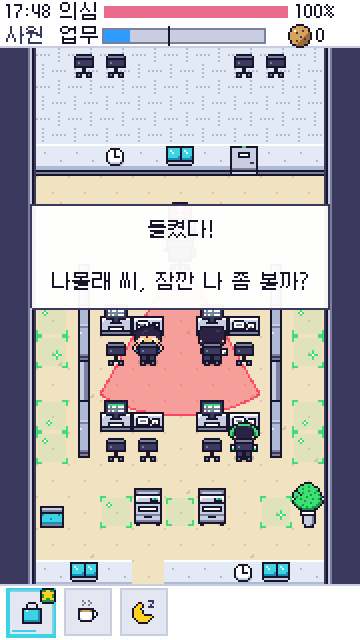
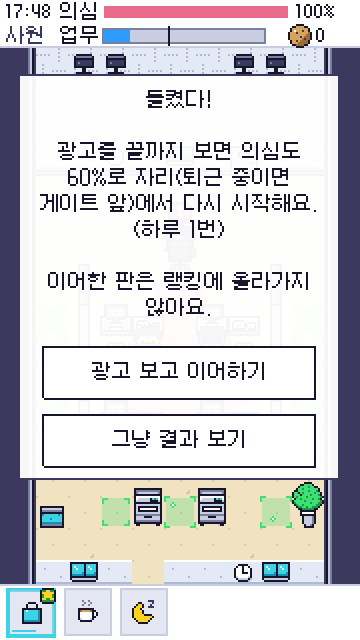
T-141 QA 결과 반영, D-121~D-126 결정, T-164~T-166 배분
Claude-Session: https://claude.ai/code/session_01HgejiTq3LUcfVCY2d4vqw2

diff --git a/molrae-toegeun/qa/t141-report.md b/molrae-toegeun/qa/t141-report.md
@@ -1,0 +1,238 @@
+# T-141 QA 재측정 보고서 (최신 커밋 기준, 미리보기 빌드 설정)
+
+- 측정 대상: `8b883a3`(T-162 반영본). 이후 `98c3658`은 `strings.ko.json`에 `settings.character_confirm` 키 1개만 추가(코드 미연결)했고 순회·맵·밸런스 데이터는 같아서 결과는 두 커밋에 똑같이 적용됩니다.
+- 조립 설정: 미리보기 빌드와 같습니다(`?v3=1&gender=1`, 순회 auto). 생성 맵, 미션 v3, 성별 시설, 팀장 순회를 모두 켰습니다(`game/tests/lib/t141content.ts`). 데이터 기본값(`enabled: false`)이 아니라 활성 상태를 측정했습니다.
+- 브라우저는 프로덕션 빌드 기준입니다(D-114). `vite build --outDir tests/.out/t141/dist`로 만들고 `vite preview`로 띄웠으며, 가짜 rAF와 deviceScaleFactor 1을 썼습니다.
+- 실행 방법은 모두 `game/`에서 합니다. 자세한 내용은 `game/tests/README.md` T-141 절을 보세요.
+  - `bash tests/run-t141.sh balance 100 30 60 5 4 10`: 하루 전체 봇 3종. 1~15일 100시드, 16~60일 30시드(대표님 날 60시드), 61~200일 5시드(대표님 날 8시드). 성별 짝은 3~60일 10시드. 총 16,844판, 오류 0, 4워커로 537초 걸렸습니다.
+  - 집계: `python3 -I tests/sim/t141-tables.py` → `tests/.out/t141/tables.md`
+  - `bash tests/run-t141.sh tour 6 200 5`: 앉은 봇(GDD v3 §3-7 봇 B). 6~200일 × 5시드 = 975일-시드.
+  - `bash tests/run-t141.sh maps [--write]`: 맵 해시 스냅샷과 성별 시설 회귀. `bash tests/run-t141.sh gap`: 방해 배치 최소 간격 검사.
+  - `bash tests/run-t141.sh trace <일차> <straight|disguise|novice|sit> <시드> [시작초] [끝초]`: 한 판을 재현합니다.
+  - `node tests/browser/t141-browser.cjs http://localhost:5180/ all`과 `node tests/browser/t141-title-return.cjs`
+- 실기기 항목은 범위에서 제외했습니다.
+
+## 0. 하니스 변경(T-131 대비)
+
+- 추가한 봇 조작: 새 미션 행동 4종(택배 fetch, 출력 remote_start·grab, 카페 queue).
+- zone_only 미션 처리: 구역 입구에서 0.8초 둘러본 뒤 장소로 갑니다. 기존 봇은 입구에서 시간 초과까지 서 있었습니다.
+- 미션 선택: 시간 예산에 맞는 첫 미션을 고릅니다. 기존 봇은 맨 앞 미션이 예산에 안 맞으면 하루 종일 쉬었습니다. 이 결함 때문에 1차 실행 결과(1~10일 칼퇴 67.5%)는 폐기하고 다시 측정했습니다.
+- 플레이 시간 보정을 없앴습니다. 결과 `timeSec`에 인트로가 이미 들어 있습니다(BUG-013 수정).
+- 인사팀 우회 측정을 없앴습니다.
+- 순회 콘이 만든 의심 비중을 새로 계측합니다.
+- 광고 픽스처 수정: `countersDate`를 '오늘'로 둡니다. 설치일 날짜로 두면 D-068 규칙에 따라 카운터가 0으로 초기화되어 전면광고가 뜨지 않습니다.
+
+## 1. 합격선 9개 (캐주얼 기준 = 위장 봇)
+
+| # | 기준 | 결과 | 판정 |
+|---|---|---|---|
+| 1 | 1판 평균 60~90초(1~5일 50~75초), 최댓값 ≤ 95초 | 평균: 1~5일 61.1, 6~15일 72.4, 16~30일 78.9, 31~60일 80.7, 61~200일 82.7초<br>최댓값: 1~60일 **95.6초**, 1~200일 **104.9초**. 95초 초과 58/12,778판으로 전부 대표님 날(78·158·183·103·32·173·101일) | **불합격** |
+| 2 | 1~10일 칼퇴(★2+) 70~80%, 적발 ≤ 10% | 칼퇴 72.0%, 적발 0.4% | 합격 |
+| 3 | 순시 눈도장 40~60%, 순시 원인 적발 ≤ 20% | 눈도장 50.5%, 적발 판 중 순시 원인 2.9%(순시 중 적발 0.1%) | 합격 |
+| 4 | 시선·말걸기·모퉁이 전조 ≥ 0.4초, 연속 페이크 0 | 돌아보기 536,012회 중 전조 부족 0, 무전조 0, 연속 페이크 0 | 합격 |
+| 5 | 화면 밖 원인 의심 상승 0틱, 화살표가 실제 시선보다 늦은 사례 0건 | 화면 밖 시선 틱 0. 원인 불명 상승 85틱은 성별 시설 규칙 벌점(C3 마주침 +0.05)과 NPC 교체 틱의 하니스 기록 누락으로 확인했습니다(표본 2건 추적).<br>**화면·화살표 선행 0.4초 미달 209건**/시선 시작 136,629회. 18일에만 45건이며 순회 팀장이 목적지 대기 뒤 전조 없이 출발 → BUG-018 | **불합격** |
+| 6 | 화면 안 동시 인원 ≤ 8 | **최대 9명**(17판: 45·151·171일) → BUG-019 | **불합격** |
+| 7 | 직진 봇 사원 평균 최고 의심 ≥ 0.6, 캐주얼 사원 ★3 20~40% | 62.2%, ★3 26% | 합격 |
+| 8 | (D-078) 인턴 미니게임 ≥ 85%, 인턴 퇴근 ≥ 80% | 커피 96.3%, 낮잠·화장실·쇼핑·간식 100%, 퇴근 82.8% | 합격 |
+| 9 | 퇴근 방해 1개당 지연 1.5~2.5초 | **0.87초/건**(짝 1,377, 방해 1,987건). 단일 방해별: INT-04 2.36, INT-06 1.63, INT-07 1.39, INT-10 0.94, INT-05 0.04, INT-08 −0.80초 | **불합격** |
+
+**합계: 5/9 합격**(2·3·4·7·8). D-069 출시 기준은 충족하지 못했습니다.
+
+### 부가 밸런스 지표
+
+- 칼퇴율(위장 봇)
+  - 구간별: 6~15일 68.6%, 16~30일 50.4%, 31~60일 30.7%, 61~200일 31.2%
+  - 31일 이후 야근 원인은 게이트 3회 실패 676, 업무 미달 317, 시간 초과 125판입니다.
+  - 1~10일 칼퇴는 T-139 수작업 맵 기준 77.1% 대비 **−5.1%p**로, gdd-v3 §7의 '±3%p'를 벗어났습니다.
+- 새 미션 성공률(16~60일, 위장 봇)
+
+  | 미션 | 성공률 | 목표 | 비고 |
+  |---|---|---|---|
+  | 공과금(bank) | 55.0% | 80~90% | 시간 초과 43.7% |
+  | 수다(chat) | 77.5% | 75~85% | |
+  | 택배(parcel) | 61.5% | 70~85% | 시간 초과 38.5% |
+  | 출력(print) | 92.7% | 75~90% | |
+  | 카페(cafe) | 92.8% | 75~85% | |
+  | 창가(window) | 79.7% | 75~90% | |
+
+  - 데뷔 직후 구간(17~40일)은 76~100%입니다.
+- 순회 중 팀장 콘이 만든 의심 비중: 18.3%(목표 15~35%, 합격)
+- 억울한 실패 후보: 적발 1,927판 중 83판에 선행 미달 또는 원인 불명 상승이 섞여 있었습니다. 대부분 위 5번 항목의 사례입니다.
+
+## 2. 앉은 봇 계획 대비 출발(D-113 ≥ 90%)
+
+| 직급 | 일반 날: 계획 → 출발(비율) / **목적지 도착(비율)** | 대표님 날: 계획 → 출발(비율) / **목적지 도착(비율)** |
+|---|---|---|
+| 사원 | 1.90 → 1.90 (100%) / 92.6% | - |
+| 대리 | 1.92 → 1.90 (99.1%) / 95.7% | - |
+| 과장 | 2.43 → 2.43 (100%) / 94.1% | 1.67 → 1.57 (94.0%) / **62.0%** |
+| 차장 | 2.44 → 2.44 (100%) / 91.8% | 1.67 → 1.53 (92.0%) / **64.0%** |
+| 부장 | 2.57 → 2.54 (98.9%) / 91.1% | 1.20 → 1.16 (96.7%) / 83.3% |
+| 임원 | 2.43 → 2.39 (98.3%) / 89.0% | 1.63 → 1.50 (91.9%) / **65.4%** |
+
+- 'stand' 이벤트 기준 출발 비율은 모든 칸이 90% 이상이라 D-113 문구상 **합격**입니다.
+- 다만 출발한 회차 중 상당수가 목적지에 닿기 전에 되돌아옵니다(`tourReturnEarly`, 퇴근 4초 전 복귀 규칙). 대표님 날 실제 도착률은 62~65%입니다 → BUG-017.
+- 지정 일차(기본 시드 + 4시드)
+
+  | 일차 | 직급·날 | 계획 회차 | 출발 | 메모 |
+  |---|---|---|---|---|
+  | 14 | 사원 | 1회: INT-08 회의 8초, 추정 자리 비움 41.5초 | 5/5시드 | 하루 2회가 아니라 1회 |
+  | 44 | 차장·대표님 날 | 2회 | 5/5 | |
+  | 56 | 부장·대표님 날 | **0회** | - | dropped=INT-08. 팀장이 하루 종일 자리에 있음 → BUG-025 |
+  | 101 | 임원·대표님 날 | 1회(회의) | 5/5 | 회의실에 도착하자마자 되돌아옴(회의 0초) → BUG-017 |
+  | 155 | 임원·대표님 날 | 2회 | 9/10 | 시드 1개에서 회의 회차 skipped |
+
+## 3. 대표님 순시 미종료(근무 시계 정지)
+
+- 앉은 봇 975일-시드와 하루 전체 봇 대표님 날 3,348판 모두 **0건**입니다.
+  - 미종료(시간 초과) 0, 근무 시계 위반 틱 0, 미션 시계 위반 0
+  - 최장 연속 시계 정지는 28.8초로, 순시 한 번의 길이입니다. **합격**
+
+## 4. 실측 − 추정 자리 비움(D-119 cornerTellShare 판단)
+
+- 목적지에 도착한 일반 회차 기준입니다(INT-08 제외, 잘린 회차 제외).
+- 평균은 사원 +1.96, 대리 +1.64, 과장 +1.59, 차장 +1.21, 부장 +1.73, 임원 +1.54초입니다.
+- 대표님 날은 과장 +0.33, 차장 +1.35, 부장 **+2.63**(n=16), 임원 +1.19초입니다.
+- 중앙값은 +0.3~+1.3초입니다. 회차별로는 +2초 초과가 27~41%입니다(꼬리가 긺).
+- 평균 +2초 초과는 **부장 대표님 날 1칸뿐**이고 표본이 적습니다. 사원은 +1.96초로 경계선입니다.
+- 원인 관찰(17일 추적): 플레이어가 자리에 있으면 팀 구역 모퉁이마다 조건부 전조가 납니다(전조 0.5초 + 돌아보기 0.5~2초). 반대로 플레이어가 멀리 있으면 전조가 거의 없습니다. 그래서 분포가 두 갈래로 나뉩니다.
+- QA 의견: 평균 기준으로는 cornerTellShare 0.5 상향이 **필요 없음**(현행 0.25 유지)입니다. 꼬리를 줄이려면 '돌아보기 중 출발 대기'를 추정에 더하는 개발안이 더 직접적입니다.
+
+## 5. 본부장 순찰(INT-10) 때 팀장 인사 hold(D-119)
+
+- 예정 시각이 지난 뒤 인사 hold와 겹친 회차는 73/2,090회차(3.5%)입니다. 직급별로는 임원 53, 차장 9, 부장 8, 대리 3입니다.
+- hold 시간은 평균 6.9초, 최대 20.0초입니다. 그 회차의 출발 지연은 평균 7.2초, 최대 22.3초입니다.
+- **skipped 11건**(임원 10, 부장 1)은 hold 때문에 출발 마감을 넘긴 경우입니다. 전체 skipped 54건의 20%입니다.
+- QA 의견: 비율이 작아 출시 차단 사유는 아닙니다. 다만 hold가 최대 20초로 '1.0초 뒤 하던 일 계속'(gdd-v3 §3-4)과 거리가 멉니다. 원인은 본부장이 팀 구역에 머무는 동안 hold가 계속 연장되는 구조입니다. hold 상한(예: 3초)을 두는 쪽을 권합니다.
+
+## 6. 고직급 직전 목적지 반복(D-118)
+
+- 계획 기준(기본 시드)으로 직전 회차와 같은 목적지가 나온 날은 다음과 같습니다.
+
+  | 직급 | 반복한 날 |
+  |---|---|
+  | 사원 | 7/10 |
+  | 대리 | 5/12 |
+  | 과장 | 8/13 |
+  | 차장 | 6/12 |
+  | 부장 | 5/12 |
+  | 임원 | **75/136(55%)** |
+
+- 반복 쌍은 printer→printer 134건, meeting→meeting 1건입니다.
+- 출발한 회차만 세도 임원 74일로 거의 같습니다.
+- D-118 기준선은 98/136이었고 지금은 75/136입니다. D-120(팀 모듈 안 목적지 3종) 반영 뒤 재측정이 필요합니다.
+
+## 7. INT-08 흡수 날(D-117)
+
+- 기존 `p_tl_meeting`이 근무 구간에 등장한 날: **0**/975(합격). 흡수한 날에는 근무 INT-08 방해도 남지 않습니다(0).
+- 회의 중 낮잠 잠김: 팀장이 회의실 대기 중일 때 낮잠 칩이 열려 있던 틱 0, 잠김 3,278틱(합격).
+- 회의실 '사용 중': 회의실에 도착한 회차 41건 모두 표시되었습니다(합격).
+- **회의가 실제로 열리지 않은 회차**(기본 시드 흡수 회차 71건 기준)
+  - 미출발 7건: 전부 임원이고 대표님 날이 5건입니다.
+  - 출발했지만 회의실 도착 즉시 또는 도착 전에 되돌아온 회차 23건(출발 64건 중 36%)
+  - 5시드 전체로는 출발 330건 중 127건(38%)입니다 → BUG-017
+- 회의 회차 자리 비움(완료 38건): 최소 13.5, 중앙 22.2, 최대 42.2초
+  - 직급별 중앙값: 사원 36.0, 대리 28.1, 차장 41.1, 부장 35.9, 임원 21.5초
+  - 계획 단계 추정 자리 비움이 퇴근 4초 전 마감을 넘는 회차: INT-08 51/71, 일반 32/347
+
+## 8. minGapSec 추종
+
+- 데이터 사본에서 `minGapSec`를 6, 10, 14, 18로 바꿔 16~200일 근무 방해 배치를 비교했습니다.
+  - 최소 간격은 각각 6.0, 10.2, 14.2, 18.2초이고, 위반은 0건입니다(INT-10 포함).
+  - 간격을 키우면 방해 수가 줄어듭니다(186 → 146개). **합격**
+
+## 9. 경비 말걸기·성별 대칭·시설 G1~G17·맵 해시
+
+### 경비 말걸기(위장 봇·직진 봇·초보 봇 합계)
+
+- 전조 2,326회 → 성립 1,182(51%), 위장 취소 426, 그냥 지나감(missed) 673, 피함 31
+- 게이트 단계에서 정체 규칙을 넘는 상승은 0입니다.
+- 무반응 성립률 ≥ 75%(gdd-v3 §3-6)는 직진 봇만 따로 집계하지 않아 이번에는 **미판정**입니다.
+
+### 성별 대칭
+
+- `npm run sym-gender 1 200`: OK(판정 이벤트 55,557건 일치, 화장실 쌍 198일)
+- G1: 3~60일 위장 봇 같은 시드 남/여 580짝에서 결과가 다른 짝 0입니다. 칼퇴·적발·★3·길이·화장실 성공률이 모두 같습니다(차이 0, **합격**).
+- 맵 조립: 남/여 판정 재료(skins 제외)가 198일 모두 같습니다.
+
+### 시설 G 항목
+
+| 항목 | 결과 | 판정 |
+|---|---|---|
+| G2(same/other 화장실 성공률 차 ≤ 8%p, same ≥ 70%) | same 37.0%(n=73) vs other 89.5%(n=19) | **불합격**(표본 적음) → BUG-022 |
+| G3(적발률 차 ≤ 3%p) | 11.0 vs 9.7% | 합격 |
+| G4(mineSide 성공률 차 ≤ 3%p, 편도 차 ≤ 4타일) | 성공률 a 91.1% vs b 73.9% **불합격**, 편도 차 최대 3타일(평균 2.8) 합격 | **불합격** → BUG-022 |
+| G5(청소 날 ≥ 70%, 시간 초과 ≤ 15%) | 80.8%, 시간 초과 19.2%(n=26) | **불합격**(시간 초과) |
+| G6 | 전조 위반 0(4번 항목) | 합격 |
+| G10(7일 창 same/other 차 ≤ 1일) | facilityStop이 있는 날만 세면 최대 3일 | 판정 보류. 날마다 relation이 정의되는지 기획 확인 필요 |
+| G13 | sym-gender ④ 로그·판정 재료에 성별 값 0 | 합격 |
+| G15(본부장 실제 들름 ≥ 85%) | 43/60일(72%). 근무 중은 41일 | **불합격** → BUG-021 |
+| G17(생성 폴백 0) | 성별 시설 켬 0/198, 끔 0/198 | 합격 |
+
+- 미실행: G7·G8·G11·G12·G14·G16. 시설 출입 경로·화면 노출 가중 비율·렌더 로그·문 취소(발생 0회)·동기 회전·체류 봇은 전용 하니스가 필요해서 이번 범위에서 실행하지 못했습니다.
+- G9(성별 시설 끔과 켬의 판 길이 비교)도 미실행입니다(시간 부족).
+
+### 맵 해시
+
+- 3~200일 스냅샷을 새로 만들었습니다(`qa/t141-map-hashes.json`). 성별 시설 켬·끔 각각, generatorVersion 1, FNV-1a(층 행 기준)입니다.
+- 같은 일차를 다시 생성해도 198/198일 동일합니다. `gen-survey`의 같은 일차 재생성 29/29, 폴백 0, 시도 평균 1.0~3.5, 최대 13도 확인했습니다.
+- D-120(새 목적지) 반영 뒤에는 `bash tests/run-t141.sh maps`가 바뀐 일차를 표시합니다.
+
+## 10. 프로덕션 브라우저 회귀
+
+- 일괄 실행(`all`): **27/27 통과**(`game/tests/.out/t141/browser-all.log`·`browser.json`). 타이틀 복귀·같은 외형 재선택은 `t141-title-return.cjs`로 별도 확인
+- 초기 로드: 첫 터치 전 **1,463,230B**(파일 16개, 오디오 0개). 2,000,000B 이하로 합격입니다.
+  - 오디오(mp3만)는 208,252B로 220KB 이하이고 ogg는 0개입니다.
+- 첫 화면: load 640ms, 부팅 로그까지 771ms(로컬 미리보기 서버)
+- 콘솔 오류: 모든 단계에서 0
+- 캐릭터 선택
+  - 첫 출근 화면은 '첫 출근 날이에요…'·'남자 사원/여자 사원'·고르기 전 확인 비활성이 정상이고, 저장 f도 확인했습니다(`t141-03`).
+  - 설정 모드는 '내 캐릭터 바꾸기'·'남성/여성'·설정용 안내가 정상입니다. 단 확인 버튼이 **'출근하기'**입니다 → BUG-026(D-120 키 미연결).
+  - 변경 토스트 '다음 판부터 바뀐 모습으로 출근해요.'가 표시되고, 같은 외형을 다시 고르면 토스트가 없습니다. 둘 다 실제 rAF로 확인했습니다(`t141-21`, `t141-25`).
+- 마감 직전 통화 끊고 출발: 79일, `?seed=qa141-12`, 앉은 채 진행(`t141-11-phonecut-*`)
+  - 통화 포즈(−90~−10프레임) 다음 프레임에 일어나기 전조와 '회의 다녀올게요' 말풍선이 나와서, 흐름은 끊김 없이 이어집니다.
+  - 다만 끊는 동작(전화 내려놓기 등)이 없이 바로 바뀌어, 자연스러운지는 PM이나 오너가 체감으로 판단해야 합니다.
+  - 말풍선 아이콘이 문구 가운데를 가립니다 → BUG-023
+- 광고(D-050)
+
+  | 경우 | 결과 |
+  |---|---|
+  | 공통 | 제안 화면 전까지 광고 호출 0, 같은 크기 버튼 2개 |
+  | 보상 | 1회 노출 후 같은 판 재개(의심 58%로 재개, 60% − 감쇠) |
+  | 거절 | 광고 0, 결과 화면 |
+  | 중도 종료 | 1회 노출, 결과 화면과 안내, 자동 재시도 없음. 안내 토스트가 결과 패널 제목을 가림 → BUG-024 |
+  | 전면광고 | 결과 화면에서 '다음 날 출근'을 탭한 뒤 '잠시 후 광고가 나와요' 예고 → 노출 → 출근 준비 순서. 플레이 중 광고 0 |
+
+- 세로 레이아웃: 320×568은 배율 1, 390×844와 412×915는 2, 768×1024는 3입니다. 모두 정수 배율이고 넘침이 없으며 콘솔 오류 0입니다.
+- 하니스 한계: 가짜 rAF에서는 설정 뒤 타이틀이 재시작될 때 'N일차 출근'·'내 캐릭터'가 안 그려집니다. 실제 rAF에서는 정상이라 제품 문제가 아닙니다.
+
+## 11. 기존 버그 재검증
+
+| 버그 | 재검증 결과 |
+|---|---|
+| BUG-007 | 해결 확인. 인사팀 말걸기 성립 374회 |
+| BUG-009 | 판정 보류. postHoldViol 402틱이지만 이 지표는 다른 NPC 시선 상승까지 셉니다. 지표를 좁히는 작업은 다음 회차로 넘깁니다 |
+| BUG-010 | 다른 원인으로 재발. 순회 목적지 출발에서 생기며 BUG-018로 분리했습니다 |
+| BUG-011 | 해결 확인. 18시 전 보너스 305판 |
+| BUG-012 | 해결 확인. 정체 규칙 초과 상승 0 |
+| BUG-013 | 해결 확인. timeSec에 인트로 포함 |
+| BUG-014 | 해결 확인. 설치일 날짜 카운터는 0으로 초기화되고 '오늘' 카운터는 3판째에 노출 |
+| BUG-015 | 해결 확인. talkCancel escaped 355회 |
+| BUG-016 | 해결 확인. MP3 단일, 208KB |
+
+## 12. 기획 전달용 조정 제안
+
+1. 합격선 1(최댓값)
+   - 대표님 날 78·158·183일이 100초를 넘습니다. 순시 28.8초 정지와 근무 구간이 겹친 탓입니다.
+   - 제안: 고직급(임원) 대표님 날 근무를 −2~3초 더 줄이거나, 순시 talk 단계 길이를 줄입니다.
+2. 합격선 9(0.87초/건): 원인은 다음과 같습니다.
+   - 생성 맵의 퇴근 동선이 길어 방해와 마주치기 전에 다른 지연이 섞입니다.
+   - INT-08 퇴근판이 오히려 빨라집니다(−0.8초).
+   - INT-05가 사실상 0초입니다.
+   - 제안: 위협형(INT-05·08·10)을 지연 평균에서 빼는 정의 변경과 budgetModel 교체 중에서 PM이 골라야 합니다.
+3. 칼퇴율 31일 이후 약 31%: 게이트 3회 실패가 야근의 60%입니다. 과장 이상 게이트 창(windowRatio)을 +0.01~0.02 완화하는 안을 권합니다.
+4. 공과금 55%·택배 61.5%(16~60일)
+   - 공과금은 제한 16초 대비 시간 초과 44%입니다.
+   - 택배는 생성 맵에서 편도가 26칸을 넘는 날이 있어 32초 제한을 넘깁니다.
+   - 제안: 제한을 각각 +4초 늘리거나, 택배 장소 거리 상한 검증을 추가합니다.
+5. 성별 시설 G2·G4: same 날 화장실 성공 37%, mineSide b 73.9%. 거리·같은 성별 들름이 겹친 날의 시간 초과가 원인으로 보입니다. 표본을 늘린 재측정과 함께 C3 벌점이나 시간 예산 보정을 검토해야 합니다.

diff --git a/molrae-toegeun/qa/bugs.md b/molrae-toegeun/qa/bugs.md
@@ -2,6 +2,32 @@
 
 심각도: P0 출시 불가(크래시·데이터 손실·정책 위반) / P1 핵심 규칙·공정성 위반 / P2 기능 미구현·체감 문제 / P3 경미·개선
 
+## 상태 요약 (T-141 재측정, 2026-11-25, 커밋 `8b883a3`(+`98c3658` 문자열 1개), 미리보기 빌드 설정 = 생성 맵·미션 v3·성별 시설·순회)
+
+| ID | 심각도 | 제목 | 상태 |
+|---|---|---|---|
+| BUG-007 | P2 | 인사팀 INT-06 말걸기 미발동 | **해결 확인**(성립 374회) |
+| BUG-009 | P2 | 말걸기 종료 직후 상승 | 판정 보류(지표가 다른 시선 상승도 셈, 하니스 축소 필요) |
+| BUG-010 | P2 | 화면 밖 회전 전조 후 화살표 선행 미달 | 기존 원인 해소, **다른 원인으로 재발 → BUG-018** |
+| BUG-011 | P2 | 18시 전 보너스 도달 불가 | **해결 확인**(305판) |
+| BUG-012 | P3 | 게이트 도착 직후 상승 | **해결 확인**(정체 초과 0) |
+| BUG-013 | P3 | 플레이 시간 인트로 누락 | **해결 확인** |
+| BUG-014 | P3 | 설치일 판수 이월 | **해결 확인**(D-068 동작, 브라우저 픽스처) |
+| BUG-015 | P3 | talkCancel(escaped) 미발행 | **해결 확인**(355회) |
+| BUG-016 | P2 | 오디오 이중 포맷 | **해결 확인**(MP3 단일 208,252B) |
+| BUG-017 | P2 | 순회 출발 마감이 자리 비움 길이를 반영하지 않아 출발 후 목적지 전에 되돌아옴(INT-08 회의 38% 미개최, 대표님 날 도착 62~65%) | 신규 |
+| BUG-018 | P2 | 순회 팀장이 목적지 대기 뒤 전조 없이 콘을 켜고 출발 → 화면 선행 0.4초 미달 209건(합격선 5) | 신규 |
+| BUG-019 | P2 | 화면 안 인원 9명(45·151·171일, 합격선 6) | 신규 |
+| BUG-021 | P2 | 본부장 시설 들름 실제 발생 43/60일(72%, G15 ≥ 85%) | 신규 |
+| BUG-022 | P2 | 성별 시설 G2·G4 편차: same 날 화장실 37% vs other 89.5%, mineSide a 91.1% vs b 73.9% | 신규(밸런스, 표본 적음) |
+| BUG-023 | P3 | 순회 출발 말풍선 아이콘이 문구 가운데를 가림('회의 다[아이콘]올게요') | 신규 |
+| BUG-024 | P3 | 광고 중도 종료 안내 토스트가 결과 패널 제목을 가림 | 신규 |
+| BUG-025 | P3 | 56일차 팀장 순회 계획 0회, 14·16·75일차 1회(긴 회의 회차만) | 신규 |
+| BUG-026 | P3 | 설정 모드 캐릭터 확인 버튼이 '출근하기'(D-120 '바꾸기' 키 미연결) | 신규(T-163 후속) |
+
+BUG-020 번호는 비워 둠(합격선 1·9 미달은 버그가 아니라 밸런스 편차로 `qa/t141-report.md` §1·§12에 기록).
+재현 도구(game/): `bash tests/run-t141.sh <tour|balance|maps|gap|trace|phonecut|chipcaught>`, `node tests/browser/t141-browser.cjs`, `game/tests/README.md` T-141 절.
+
 ## 상태 요약 (T-131 재검증, 2026-11-23, 커밋 `e51a7f6`(T-133 반영) 소스·데이터 스냅샷, 데이터 해시 `6a926df246`)
 
 | ID | 심각도 | 제목 | 상태 |
@@ -150,3 +176,86 @@
 - 측정: 전체 dist 2,613,449바이트. 이 중 오디오 650,756바이트(MP3·OGG 같은 소리 두 벌, BGM 2곡 MP3 각 128KB + OGG 74/95KB), 오디오를 뺀 초기 로드분 1,962,693바이트입니다.
 - 기대(D-063): 초기 로드 2MB 이하(충족), 오디오는 첫 터치 뒤 지연 로드(브라우저 테스트로 충족 확인: 터치 전 요청 0, 터치 뒤 25개), **MP3 단일 포맷·오디오 전체 200KB 이하**(미충족).
 - 영향: 앱인토스 번들 총량 상한(오너 확인 대기)에 따라 제출이 막힐 수 있습니다. 초기 로드 여유도 37KB뿐입니다.
+
+
+---
+
+# T-141 신규 (2026-11-25)
+
+## BUG-017 [P2] 순회 출발 마감이 자리 비움 길이를 반영하지 않아, 출발한 회차가 목적지 전에 되돌아옴 (INT-08 회의 미개최)
+- 재현: `bash tests/run-t141.sh trace 101 sit day-101 45 70`
+  - 101일차는 임원·대표님 날이고, 계획은 meeting(INT-08 흡수) 25.5초에 추정 자리 비움 21.3초, 근무 구간 42.9초입니다.
+  - 팀장이 근무 25.5초에 출발해 회의실 칸에 도착합니다. 도착 순간 `tourReturnEarly`(퇴근 4초 전 복귀)가 발동해 회의 0초로 바로 돌아옵니다.
+  - 일반 날 예시는 17일차입니다. 2회차 meeting 28.4초가 1회차 복귀 지연으로 33.2초에 출발했고, 회의실에 닿지 못하고 자리로 돌아옵니다.
+- 기대
+  - `latestStartByTour`는 '퇴근 mustBeSeatedBeforeLeaveSec 전에 자리로 돌아올 수 있는 마지막 출발 시각'(types.ts 주석)이어야 합니다.
+  - D-117 ②의 '마감을 못 지키는 INT-08 회의 회차는 그날 회의 자체를 제외'와도 맞아야 합니다.
+- 실제
+  - `latestStartByTour`가 회차와 무관하게 근무의 85%로 같은 값입니다.
+  - 계획 단계에서 '출발 + 추정 자리 비움 > 근무 − 4초'인 회차가 INT-08 51/71, 일반 32/347입니다.
+  - 앉은 봇 975일-시드 결과
+    - 출발했지만 첫 목적지에 닿지 못한 회차: 일반 128/1,705, INT-08 127/330(38%)
+    - 대표님 날 목적지 도착률: 과장 62%, 차장 64%, 임원 65%
+  - 'stand' 기준 출발 비율(D-113)은 90% 이상이라 이 문제가 지표에 드러나지 않습니다.
+- 영향: 회의(낮잠 잠김·회의실 사용 중)가 열리지 않는 날이 많습니다. 팀장이 일어났다가 바로 돌아오는 어색한 동작이 생깁니다. 회의 칩 잠금 시간도 실제 회의 없이 소모됩니다.
+- 제안: 회차별 마감을 `근무 − mustBeSeated − 추정 자리 비움`으로 잡고, 넘는 회차는 fitToWindow로 줄이거나 뺍니다. QA 지표는 '목적지 도착 기준 출발 비율'을 함께 봅니다.
+
+## BUG-018 [P2] 순회 팀장이 목적지 대기(콘 OFF) 뒤 전조 없이 콘을 켜고 걷기 시작 → 화면·화살표 선행 0.4초 미달 (합격선 5)
+- 재현: `bash tests/run-t141.sh trace 18 disguise qa141-18-0 17 18`
+  - 팀장 순회(p_tl_seat_tour)가 (5.5,42.5)에서 대기(wait, 콘 없음)하다가 17.40초에 걷기를 시작합니다.
+  - 그 순간 위협이 approaching(화면 밖)이 되고 17.65초에 화면 안에 들어오며 바로 '보는 중'이 됩니다. 선행 창은 14/24틱(0.23초)입니다.
+- 기대: 모든 시선 시작 전 화면 안 또는 화살표가 0.4초 이상 먼저 떠야 합니다(합격선 5, GDD §5-5). gdd-v3 §3-1의 '복귀 전조 1.0초'도 해당됩니다.
+- 실제
+  - 시선 시작 136,629회 중 209건이 선행 미달입니다. 18일 45, 37일 18, 44일 15건 등이고 주로 team_lead playerEnter입니다.
+  - 탕비실·옆 팀·프린터 목적지는 `endTell`이 없습니다. 회의·보고만 있어서 대기가 끝나면 곧바로 콘이 켜진 채 걷습니다.
+- 제안: 모든 목적지에 복귀 전조(endTell, ≥ 0.4초)를 두거나, 대기 → 걷기 전환에 출발 전조를 넣습니다.
+
+## BUG-019 [P2] 화면 안 동시 인원 9명 (합격선 6: ≤ 8)
+- 재현: `bash tests/run-t141.sh trace 45 disguise qa141-45-1` 또는 171일 `qa141-171-0`. 원자료 `tests/.out/t141/bal-*.jsonl`의 `maxOnScreen` 필드
+- 기대: 매 틱 화면 안 인원(플레이어 포함) ≤ 8(D-049)
+- 실제: 12,778판 중 17판에서 9명입니다(45일 9판, 171일 7판, 151일 1판). 생성 검증 V11과 실제 틱 최댓값이 어긋납니다.
+- 제안: V11 계산에 순회 중 팀장과 본부장 들름 경로를 넣거나, 런타임 인원 상한 가드를 둡니다.
+
+## BUG-021 [P2] 본부장 시설 들름(facilityStop) 실제 발생 43/60일 (G15 ≥ 85%)
+- 재현: `bash tests/run-t141.sh maps`의 `g15Missed`(21, 23, 30, 62, 69, 84, 119, 129, 132, 149, 162, 164, 167, 169, 179, 191, 192, 196일), 앉은 봇
+  - 21일: INT-10 33.5초 발동 → 근무 54초 동안 facility tell 없음
+  - 55일: 근무 끝 55.7초에야 tell, 퇴근 구간에 들어감
+- 기대: facilityStop이 있는 날 ≥ 85% 실제로 들어감(gender-design §6 G15)
+- 실제: 43/60일(72%)이고 근무 중은 41일입니다. 본부장 경로가 들름 노드를 지나기 전에 하루가 끝나거나 순찰이 끝납니다.
+
+## BUG-022 [P2] 성별 시설 지표 편차 (G2·G4, D-092 게이트)
+- 재현: `python3 -I tests/sim/t141-tables.py` '성별 시설 G2~G5'(위장 봇, `tests/.out/t141/facility.json` 결합)
+- 기대
+  - G2: relation same/other 화장실 성공률 차 ≤ 8%p, same ≥ 70%
+  - G4: mineSide a/b 성공률 차 ≤ 3%p
+  - G5: 청소 날 시간 초과 ≤ 15%
+- 실제
+  - G2: same 37.0%(n=73) vs other 89.5%(n=19)
+  - G4: a 91.1%(n=461) vs b 73.9%(n=433). 편도 거리 차는 최대 3타일로 기준 안입니다.
+  - G5: 청소 날 시간 초과 19.2%(n=26)
+- 비고
+  - 남/여 플레이어 사이 차이는 0입니다(G1 합격, 절대 성별 누수 없음). 이 편차는 '내 쪽 시설 배치와 날짜' 편차라 남녀 유불리와는 무관합니다.
+  - same·other 표본이 적어 시드를 늘린 재측정이 필요합니다.
+
+## BUG-023 [P3] 순회 출발 말풍선에서 목적지 아이콘이 문구 가운데를 가림
+- 재현: `node tests/browser/t141-browser.cjs http://localhost:5180/ phone`(79일, `?seed=qa141-12`, 앉은 채 진행) → `qa/screenshots/t141-11-phonecut-+0.png`~`+45.png`
+- 기대: 말풍선 문구('회의 다녀올게요')와 목적지 아이콘이 겹치지 않음
+- 실제: 아이콘이 '녀' 자리를 덮어 '회의 다[아이콘]올게요'로 보입니다.
+
+## BUG-024 [P3] 광고 중도 종료 안내 토스트가 결과 패널 제목을 가림
+- 재현: `?adResult=dismiss&day=8&v3=1&gender=1`에서 적발 → '광고 보고 이어하기' → `qa/screenshots/t141-13-dismiss-after.png`
+- 기대: 안내('광고를 끝까지 보지 않아 이어하기가 적용되지 않았어요.')와 결과 제목('들켰다!')이 둘 다 읽힘
+- 실제: 토스트가 패널 상단 '들켰다!'의 윗부분을 덮습니다.
+
+## BUG-025 [P3] 팀장 순회 회차가 0~1회인 날
+- 재현: `bash tests/run-t141.sh tour 56 56 1`과 14·16·75일
+- 기대: REQ-014(하루 2~4회), D-106(대표님 날 2~3회), D-113 실측 기준(사원 1.8회 이상)
+- 실제
+  - 56일(부장·대표님 날): 계획 0회(dropped INT-08)라 팀장이 하루 종일 자리에 있습니다.
+  - 14일(사원): INT-08 회의 1회만(추정 자리 비움 41.5초), 16일(대리) 1회(36.2초), 75일(임원) 1회(36.9초)
+  - INT-08 흡수가 '가장 가까운 회차를 대체'한 뒤 긴 회의 회차 때문에 나머지 회차가 fitToWindow로 빠지는 것으로 보입니다.
+
+## BUG-026 [P3] 설정 모드 캐릭터 선택의 확인 버튼이 '출근하기'
+- 재현: 외형 저장 상태에서 타이틀 '내 캐릭터' → `qa/screenshots/t141-07-charsel-settings.png`
+- 기대: D-120 '바꾸기'(`settings.character_confirm`)
+- 실제: `CharSelectScene`이 모드와 무관하게 `confirmKey`(charsel.confirm '출근하기')를 씁니다. 키는 98c3658에서 데이터에 추가됐지만 코드에 연결되지 않았습니다.

diff --git a/molrae-toegeun/pm/board.md b/molrae-toegeun/pm/board.md
@@ -68,7 +68,7 @@
 | T-138 | mt-client-dev | T-136 데이터 키 연결, 동작 변경 4건, 공범 간식 ×1.5 버그, 오디오 ogg 잔재 정리 | T-136 | 완료 |
 | T-139 | mt-game-designer | QA 밸런스 제안 10건 검토·데이터 반영 | T-131 | 완료 (합격선 7개 통과 예상) |
 | T-140 | mt-client-dev | BUG-007·009·010·011·012·013·014·015 수정, 초기 로드 여유 확보 | T-131 | 완료 |
-| T-141 | mt-qa-tester | (T-162 반영본 기준) 최신 코드·데이터로 T-131 측정 재실행 + 생성 맵 다수 시드 공정성·시간 예산 검증(합격선 9개, 버그 재검증, QA_LIVE=1, 하니스 갱신: 인사팀 우회 측정 제거·광고 픽스처·플레이 시간 보정 제거·postHoldViol 지표 축소, 폰트 새 형식 브라우저 확인) | T-139, T-140 | 진행 |
+| T-141 | mt-qa-tester | (T-162 반영본 기준, 결과: 합격선 5/9·P2 5건) 최신 코드·데이터로 T-131 측정 재실행 + 생성 맵 다수 시드 공정성·시간 예산 검증(합격선 9개, 버그 재검증, QA_LIVE=1, 하니스 갱신: 인사팀 우회 측정 제거·광고 픽스처·플레이 시간 보정 제거·postHoldViol 지표 축소, 폰트 새 형식 브라우저 확인) | T-139, T-140 | 완료 |
 | T-142 | mt-game-designer | 생성 맵 규칙·검증 규칙, 팀장 순회, 데일리 미션 풀×변형 기획과 데이터 v3 초안(REQ-013~015) | D-074~076 | 완료 |
 | T-143 | mt-pixel-artist | 사무실 모듈 에셋 확장(새 구역·구조물·책상 배치·막힌 길·팀장 일어나기) | D-076 | 완료 |
 | T-144 | mt-client-dev | 일차별 맵 공급 구조, 생성기 골격·검증기, 팀장 순회, 미션 변형 훅 | D-074~076 | 완료 |
@@ -100,3 +100,7 @@
 - **S3 (W5~W6)**: 승진·도감·튜토리얼, 공유 카드, 자동 QA와 밸런스 튜닝, 최적화, 실제 토스 앱 QA
 - **S4 (W7~W8)**: 콘솔 등록 문구·이미지, 검수 제출(오너 승인), 출시, 라이브옵스 투입
 | T-163 | mt-game-designer | 고직급 순회 목적지 다양화 제안서(자리 근처 짧은 목적지, D-118) + 설정 확인 버튼 문구 키 settings.character_confirm | T-162 | 완료 |
+| T-164 | mt-client-dev | T-141 버그 수정: BUG-017(출발 마감에 자리 비움 반영), 018(목적지 복귀 전조), 019(화면 9명), 023(말풍선 아이콘), 024(토스트 겹침), 025(순회 0~1회 날), 026(확인 버튼 키), 인사 hold 상한 3초(D-124), 추정에 돌아보기 대기 포함 | T-141 | 진행 |
+| T-165 | mt-game-designer | D-120 목적지 3종 데이터 반영, D-122 순시 talk 단축, D-125 미션 조정, D-121 합격선 9 정의 수정, BUG-021(G15)·022(G2·G4) 데이터 원인 검토 | T-141 | 진행 |
+| T-166 | mt-pixel-artist | D-120 순회 아이콘 3종·벽 장식·메모 소품·대기 포즈 | T-163 | 진행 |
+| T-168 | mt-qa-tester | T-164~166 반영 후 전체 재측정(도착 기준 D-123, 미실행 G 항목 하니스, BUG-022 시드 확대, 경비 무반응 성립률) | T-164, T-165, T-166 | 대기 |

diff --git a/molrae-toegeun/pm/decisions.md b/molrae-toegeun/pm/decisions.md
@@ -126,3 +126,9 @@
 | D-118 | 2026-11-25 | 고직급 직전 목적지 반복(임원 136일 중 98일, 주로 복사기→복사기)은 출시 범위에서 허용하되, 기획이 자리 근처의 짧은 순회 목적지 추가안을 문서로 먼저 제안(T-163). 데이터 반영은 QA T-141 측정 후 | 측정 기준선을 흔들지 않기 위해 순서 분리 | PM | 기획·QA |
 | D-119 | 2026-11-25 | cornerTellShare 0.5 상향 여부와 본부장 순찰(INT-10) 때 팀장 인사 hold 지연은 QA T-141 재측정 결과를 보고 결정 | 근거 수치 확보 후 결정 | PM | 기획·개발·QA |
 | D-120 | 2026-11-25 | (T-163) 팀 모듈 안 순회 목적지 3종(화이트보드·정수기·빈 책상 메모) 채택, 첫 등장 28일차(과장 첫날), 맵 해시 변경은 D-109와 같은 조건으로 승인하되 반영은 QA T-141 직후. 설정 확인 버튼 문구 '바꾸기' | 임원 반복 98/136일 → 0~4일 예상, 사원·대리 난이도 유지 | PM | 기획·아트·개발·QA |
+| D-121 | 2026-11-25 | (T-141 판단 1) 합격선 9의 퇴근 방해 지연 평균에서 위협형 방해(INT-05·08·10)는 제외하고 지연형만 측정 | 위협형은 지연이 아니라 회피 대상이라 정의가 맞지 않음 | PM | 기획·QA |
+| D-122 | 2026-11-25 | (판단 2) 합격선 1(최대 95초) 초과는 대표님 순시 talk 단계 단축으로 해결(직급별 근무 시간은 유지) | 초과 58판 모두 대표님 날, 원인 직결 | PM | 기획 |
+| D-123 | 2026-11-25 | (판단 3) D-113 품질 지표를 '출발'에서 '목적지 도착' 기준(≥90%)으로 변경. 출발 마감은 회차 자리 비움 길이를 반영(BUG-017) | 출발 후 되돌아오면 플레이어에게 순회로 보이지 않음 | PM | 개발·QA |
+| D-124 | 2026-11-25 | (판단 4, D-119 확정) cornerTellShare 0.25 유지, 추정에 '돌아보기 중 출발 대기'를 더함. 본부장 순찰 때 팀장 인사 hold 상한 3초 | QA 측정 평균 +2초 이내, skipped 20%가 hold 원인 | PM | 기획·개발 |
+| D-125 | 2026-11-25 | (판단 5) 미션 조정: 공과금·택배 제한 +4초(택배는 거리 상한 검증 추가), 31일 이후 게이트 창 +0.015. 1~10일 칼퇴 72.0%는 목표 70~80% 안이라 수작업 맵 대비 ±3%p 기준은 참고로만 둠 | 목표 범위 기준 우선 | PM | 기획·QA |
+| D-126 | 2026-11-25 | (판단 6) D-120 목적지 데이터·아트를 이번 수정 라운드에 함께 반영하고, QA는 수정 후 맵·순회·밸런스 전체 재측정(T-168) | 맵이 어차피 다시 바뀌므로 한 번에 재측정 | PM | 전원 |
